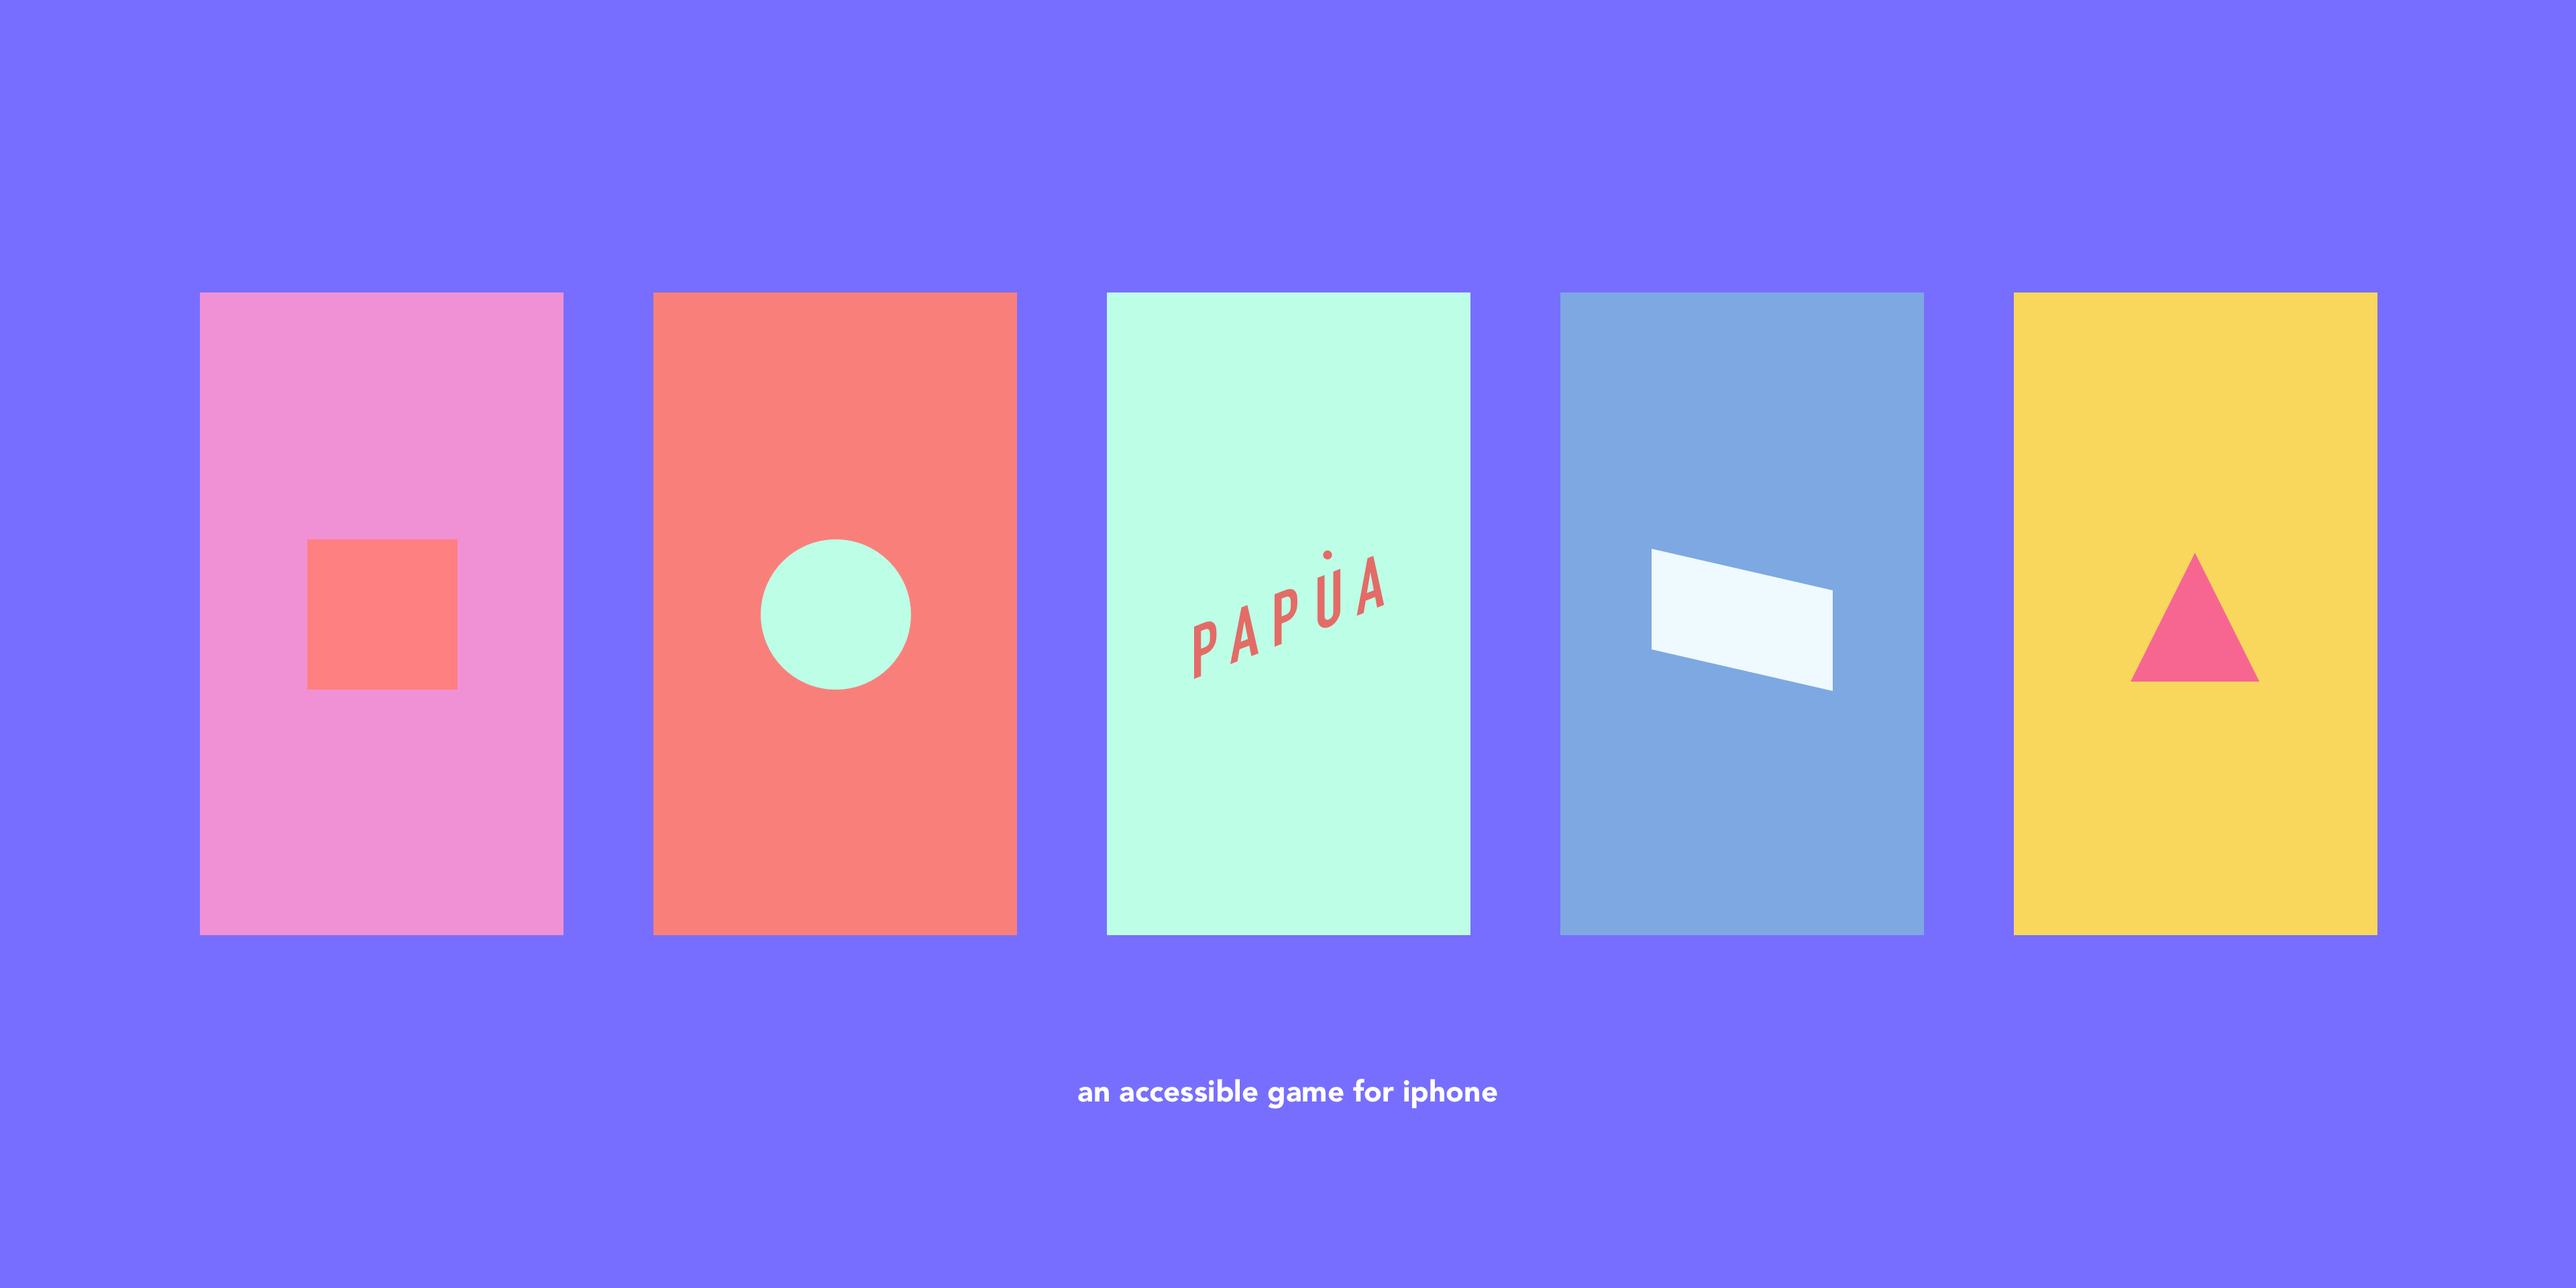
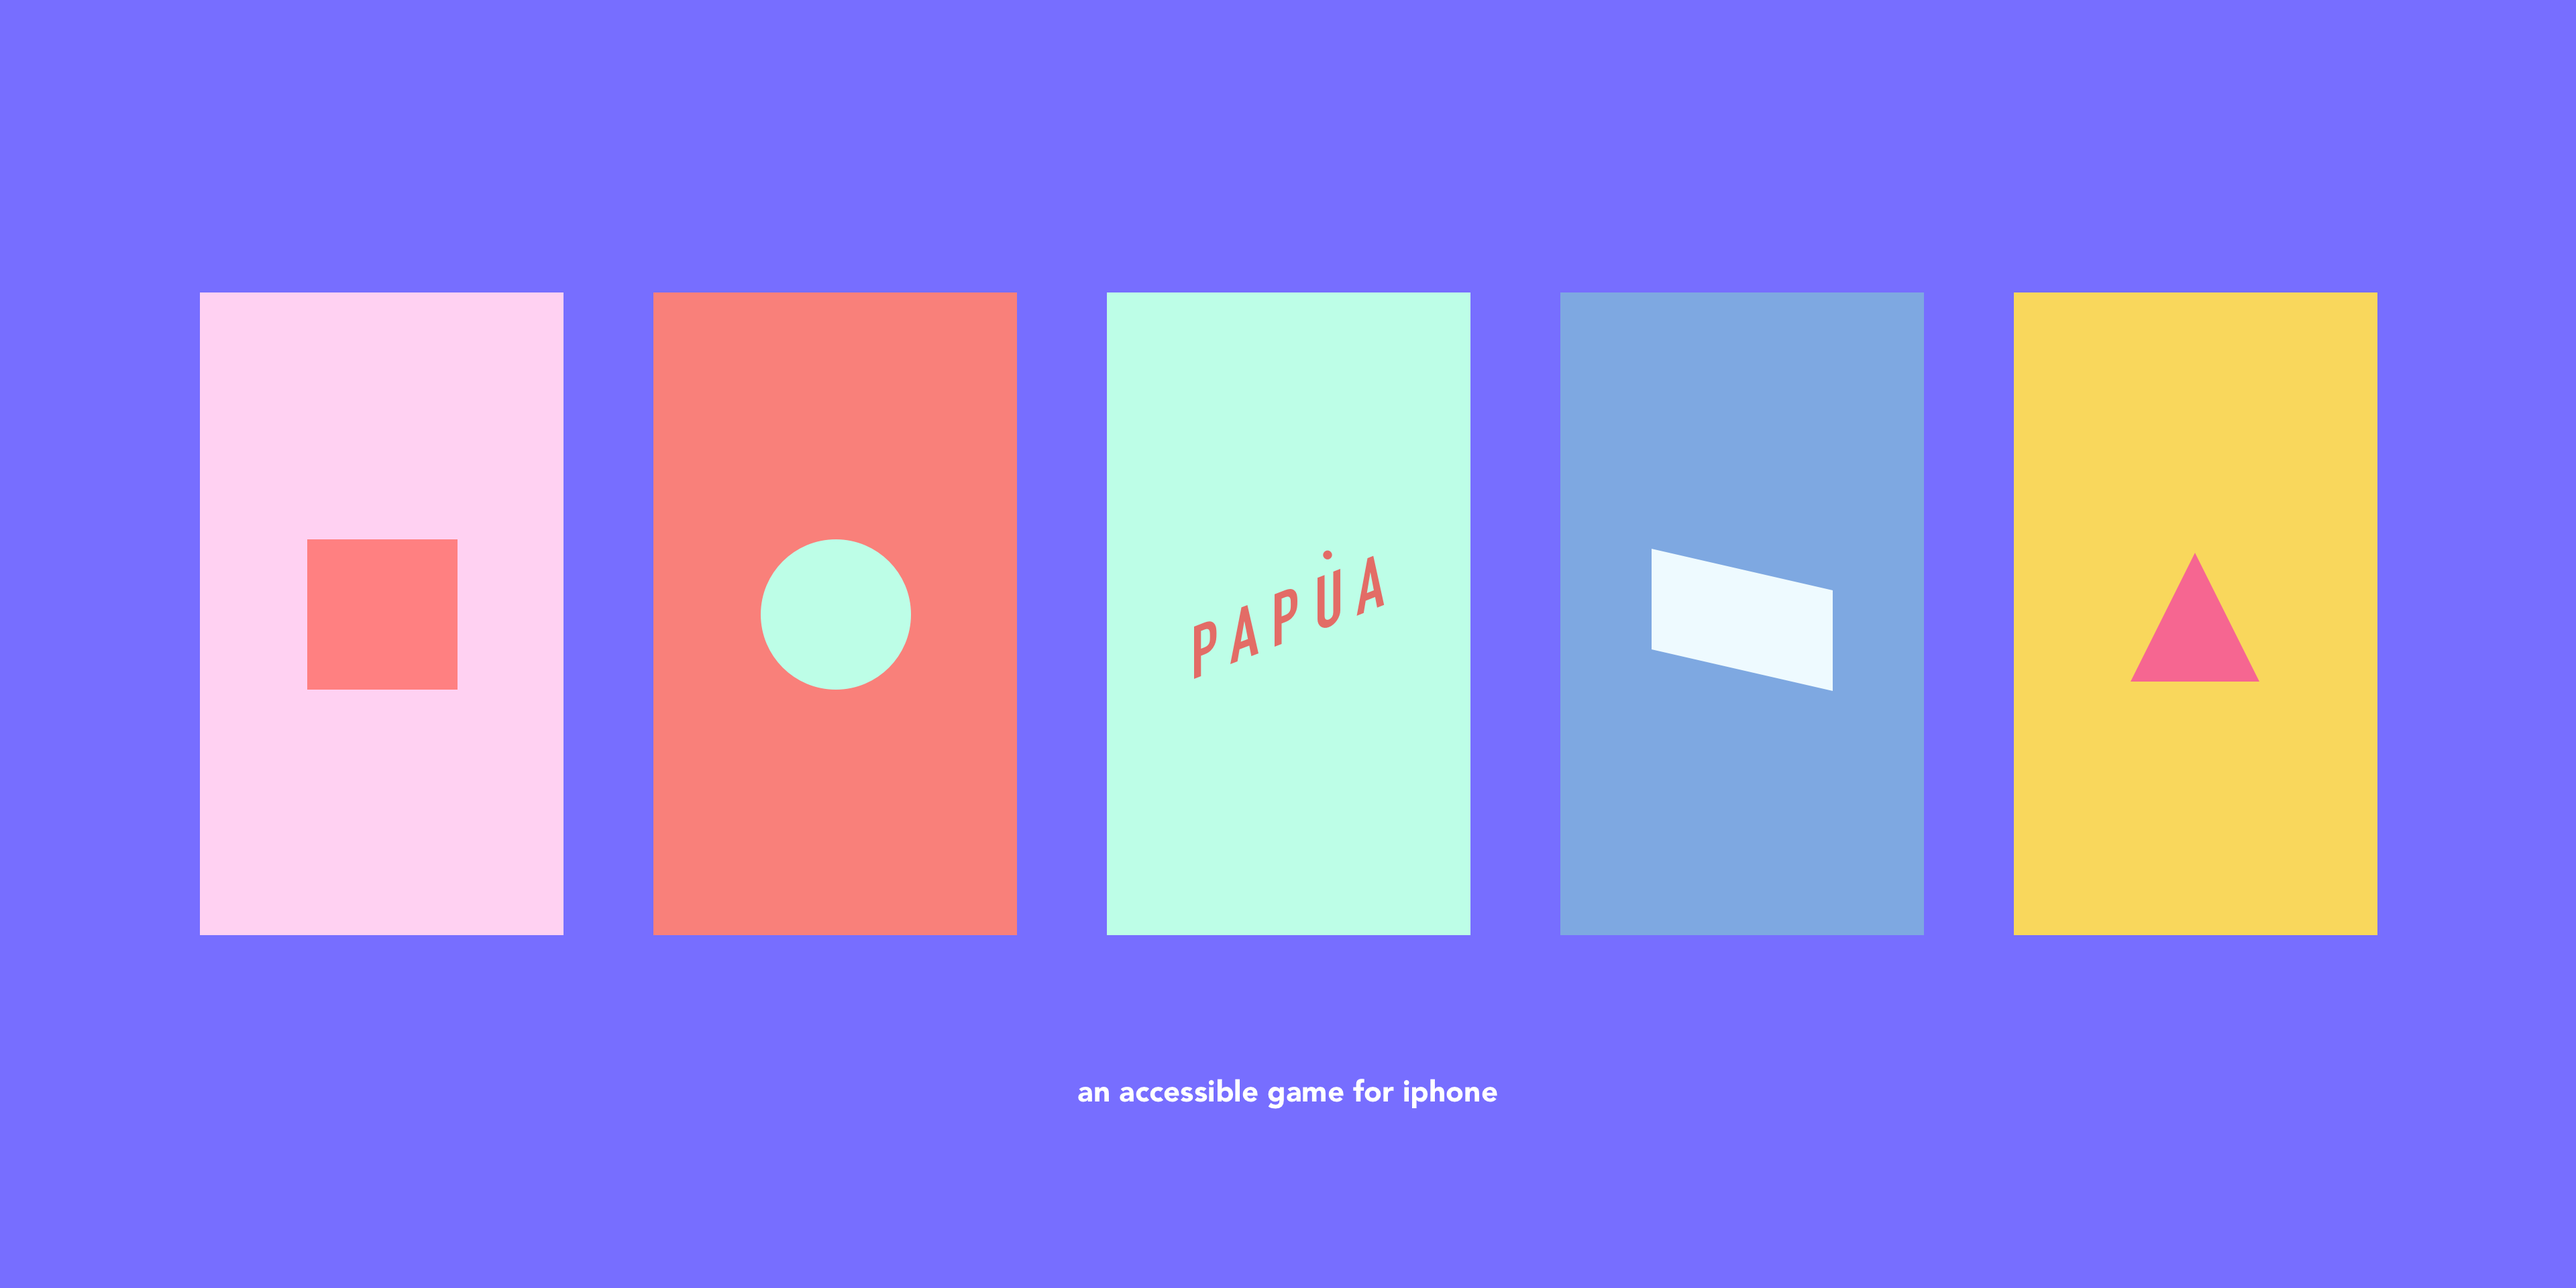
content_update

Changed region(s): [[0.0625, 0.2188, 0.2188, 0.75]]

diff --git a/papua.html b/papua.html
@@ -217,7 +217,7 @@
                         <div class="imatge">
                             
                             <div class="aspect-ratio-square">
-                                <img src="img/ixdpapua.png" />
+                                <img src="img/moodpapua.png" />
                             </div>
                         </div>
                     </div>
